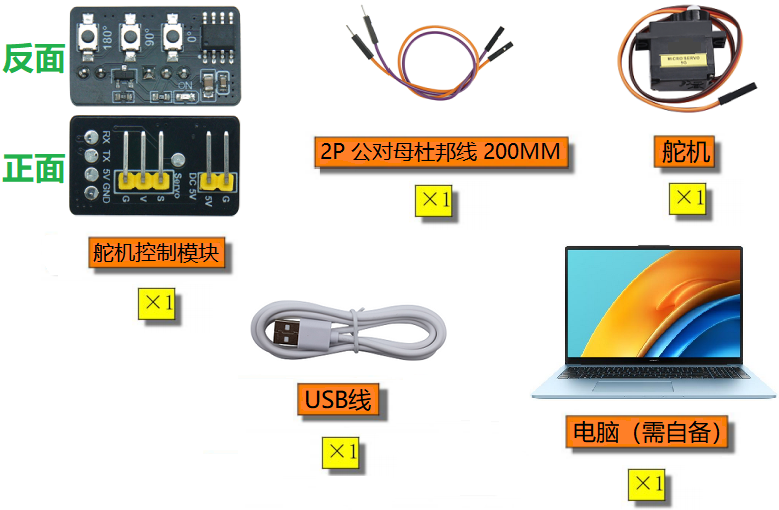
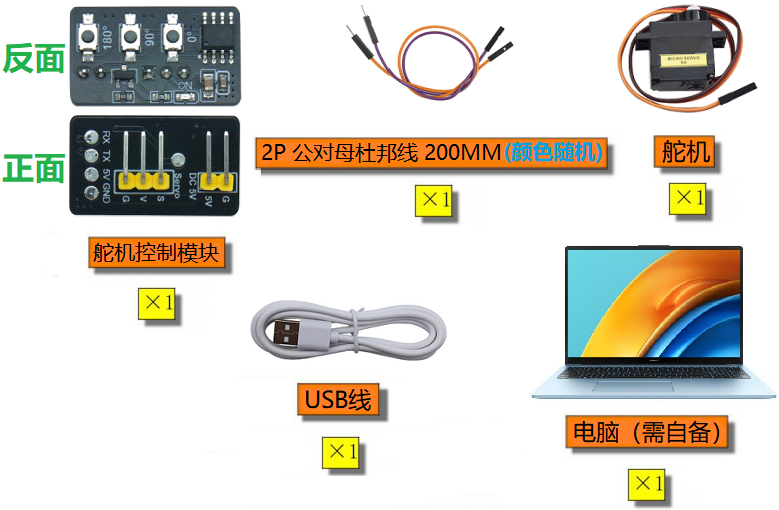
V06-2026-10-14

Changed region(s): [[0.3081, 0.2647, 0.801, 0.3529]]

diff --git a/docs/3.产品安装/3.产品安装.md b/docs/3.产品安装/3.产品安装.md
@@ -26,13 +26,7 @@
 
 ![D1](../media/D1.png)
 
-所需线材：
-
-- 2PIN 公对母杜邦线 颜色随机
-
-![2p200](../media/2p200_1.png)
-
-接线图：
+**接线图：**
 
 | 舵机 | 舵机控制模块 |
 | :--: | :----------: |
@@ -45,7 +39,7 @@
 |      5V      |      5V       |
 |      G       |      GND      |
 
-⚠ <span style="color: rgb(200, 70, 100);">**重要提醒：USB线的一端连接到电脑的USB口，另一端连接到Arduino主控板的USB口。**</span>
+⚠ <span style="color: rgb(200, 70, 100);">**重要提醒：USB线的一端连接到电脑的USB口，另一端连接到Arduino主控板的USB口。通过电脑直接给Arduino主控板供电。**</span>
 
 ![D2](../media/6A85BA.png)
 
